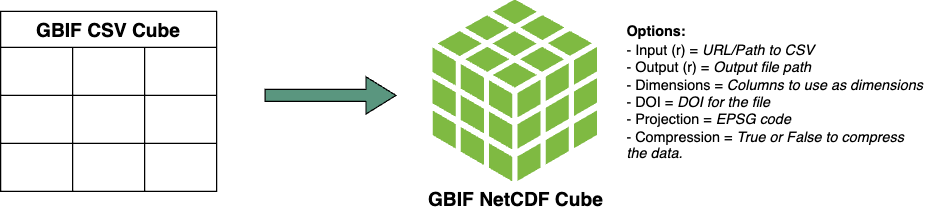
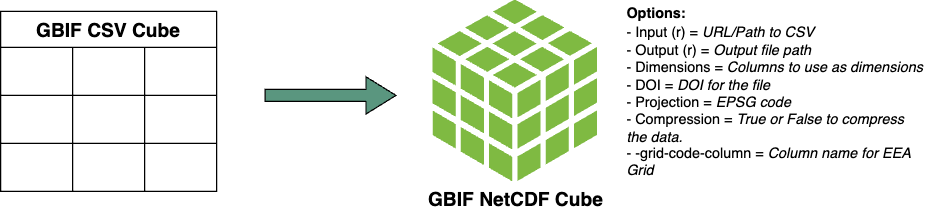
updated

diff --git a/gbif-csv2netcdf.py b/gbif-csv2netcdf.py
@@ -83,6 +83,13 @@ parser.add_argument(
     help="Digital Object Identifier (DOI) of the dataset",
 )
 
+parser.add_argument(
+    "--grid-code-column",
+    type=str,
+    required=False,
+    help="Name of the column containing the EEA grid cell code",
+)
+
 # Parse the parameter string on the commandline into the args defined above
 ARGS = vars(parser.parse_args())
 
@@ -94,29 +101,50 @@ DIMENSIONS = ARGS["dimensions"]
 COMPRESSION = ARGS["compression"]
 PROJECTION = ARGS["projection"]
 DOI = ARGS["doi"]
+GRID_CODE_COLUMN = ARGS["grid_code_column"]
 
 try:
-    # Extraxt the EAST coordinate
-    def extract_east_number(text):
-        numbers = re.findall(r'\d+', text)
-        if len(numbers) >= 2:
-            return int(numbers[1])  # Extract the second number
+
+    def extract_east_north(text, east_or_north):
+        """
+        Extracts the easting and northing values from a grid cell code, applying
+        a scaling factor based on whether the resolution is in kilometers or meters.
+
+        Parameters:
+        text (str): The grid cell code, e.g., '250mE1025N22000'.
+
+        Returns:
+        tuple: A tuple containing the scaled easting and northing values, or None if extraction fails.
+        """
+        # Determine the resolution unit and set the scaling factor
+        resolution_match = re.match(r"(\d+)(km|m)", text)
+        if resolution_match:
+            unit = resolution_match.group(2)
+            if unit == "km":
+                scaling_factor = 1000
+            elif unit == "m":
+                scaling_factor = 10
+            elif unit is None:
+                return None
+
+        else:
+            return None  # If the resolution unit is not found
+
+        # Extract the numerical parts of the code
+        numbers = re.findall(r"\d+", text)
+        if len(numbers) >= 3:  # Ensure there are enough parts in the code
+            easting = (
+                int(numbers[1]) * scaling_factor
+            )  # Apply scaling to the easting value
+            northing = (
+                int(numbers[2]) * scaling_factor
+            )  # Apply scaling to the northing value
+            if east_or_north == "east":
+                return easting 
+            if east_or_north == "north":
+                return northing
         else:
             return None
-        
-
-    # Extraxt the NORTH coordinate
-    def extract_north_number(text):
-        numbers = re.findall(r'\d+', text)
-        match = re.match(r'(\d+km|\d+m)', text)
-        if match:
-            return match.group(0)  # Returns the matched resolution part
-        if len(numbers) >= 2:
-            return int(numbers[2])  # Extract the second number
-        else:
-            return None
-
-
 
     # Check if the input file was not provided and the URL was
     if INPUT_PATH is None and ARGS["url"] is not None:
@@ -132,9 +160,20 @@ try:
         files = os.listdir("data")
 
         # Read the GBIF Data Cube
-        df = pd.read_csv(f"data/{files[0]}", encoding="utf-8", sep="\t", index_col=False)
-        
-        
+        df = pd.read_csv(
+            f"data/{files[0]}", encoding="utf-8", sep="\t", index_col=False
+        )
+
+        # Create Easting and Northing columns from the GRID_CODE_COLUMN
+        if GRID_CODE_COLUMN is not None:
+            df["easting"] = df[GRID_CODE_COLUMN].apply(
+                lambda x: extract_east_north(x, east_or_north= "east")
+            )
+            df["northing"] = df[GRID_CODE_COLUMN].apply(
+                lambda x: extract_east_north(x, east_or_north= "north")
+            )
+            print("\nEasting and Northing columns created")
+
 
         # Infer better dtypes for object columns
         dfn = df.infer_objects()
@@ -152,6 +191,10 @@ try:
                 var = str_var.strip()
                 print("\nAdding dimension", var)
                 ds = ds.assign_coords({dimension: df[var]})
+                if GRID_CODE_COLUMN is not None:
+                    ds = ds.assign_coords(
+                        {"easting": df["easting"], "northing": df["northing"]}
+                    )
                 ds.drop_indexes("index", errors="raise")
 
         # Add attributes to the NetCDF file
@@ -161,15 +204,18 @@ try:
         ds.attrs["source"] = URL or INPUT_PATH
         ds.attrs["history"] = "Created using code from the B-Cubed Hackathon 2024"
         if DOI is not None:
+            print("\nAdding DOI", DOI)
             ds.attrs["doi"] = DOI
 
         # Add the projection to the NetCDF file
+        print("\nAdding projection", PROJECTION)
         ds.rio.write_crs(PROJECTION, inplace=True)
         ds.rio.write_grid_mapping(inplace=True)
 
         # Write the NetCDF file
         # Add compression to the NetCDF file
         if ARGS["compression"]:
+            print("\nAdding compression to the NetCDF file")
             comp = dict(compression="zlib", complevel=5)
             encode = {var: comp for var in ds.data_vars}
             ds.to_netcdf(OUTPUT_PATH, encoding=encode)
@@ -182,13 +228,23 @@ try:
         os.remove("data.zip")
         shutil.rmtree("data")
 
-
     # If the input file was provided, read the file
     else:
         print("\nReading GBIF Data Cube from", INPUT_PATH)
 
         # Read the GBIF Data Cube
         df = pd.read_csv(INPUT_PATH, encoding="utf-8", sep="\t", index_col=False)
+
+        # Create Easting and Northing columns from the GRID_CODE_COLUMN
+        if GRID_CODE_COLUMN is not None:
+            df["easting"] = df[GRID_CODE_COLUMN].apply(
+                lambda x: extract_east_north(x, east_or_north= "east")
+            )
+            df["northing"] = df[GRID_CODE_COLUMN].apply(
+                lambda x: extract_east_north(x, east_or_north= "north")
+            )
+            print("\nEasting and Northing columns created")
+            
 
         # Infer better dtypes for object columns
         dfn = df.infer_objects()
@@ -206,6 +262,10 @@ try:
                 var = str_var.strip()
                 print("\nAdding dimension", var)
                 ds = ds.assign_coords({dimension: df[var]})
+                if GRID_CODE_COLUMN is not None:
+                    ds = ds.assign_coords(
+                        {"easting": df["easting"], "northing": df["northing"]}
+                    )
                 # TODO: drop_indexes method is not working
                 # ds.drop_indexes("index", errors="raise")
 
@@ -227,6 +287,7 @@ try:
         # Write the NetCDF file
         # Add compression to the NetCDF file
         if ARGS["compression"]:
+            print("\nAdding compression to the NetCDF file")
             comp = dict(compression="zlib", complevel=5)
             encode = {var: comp for var in ds.data_vars}
             ds.to_netcdf(OUTPUT_PATH, encoding=encode)
@@ -245,43 +306,3 @@ except:
     os.remove(OUTPUT_PATH)
     print("Exiting the program")
     exit(1)
-    
-    
-    
-    import re
-
-def extract_east_north(text):
-    """
-    Extracts the easting and northing values from a grid cell code, applying
-    a scaling factor based on whether the resolution is in kilometers or meters.
-    
-    Parameters:
-    text (str): The grid cell code, e.g., '250mE1025N22000'.
-    
-    Returns:
-    tuple: A tuple containing the scaled easting and northing values, or None if extraction fails.
-    """
-    # Determine the resolution unit and set the scaling factor
-    resolution_match = re.match(r'(\d+)(km|m)', text)
-    if resolution_match:
-        unit = resolution_match.group(2)
-        if unit == "km"
-            scaling_factor = 1000 
-        elif unit == "m" 10
-    else:
-        return None  # If the resolution unit is not found
-    
-    # Extract the numerical parts of the code
-    numbers = re.findall(r'\d+', text)
-    if len(numbers) >= 3:  # Ensure there are enough parts in the code
-        easting = int(numbers[1]) * scaling_factor  # Apply scaling to the easting value
-        northing = int(numbers[2]) * scaling_factor  # Apply scaling to the northing value
-        return easting, northing
-    else:
-        return None
-
-# Example usage
-codes = ["250mE1025N22000", "1kmE5432N4321"]
-for code in codes:
-    east_north = extract_east_north(code)
-    print(f"Code: {code}, Easting/Northing with Scaling: {east_north}")

diff --git a/README.md b/README.md
@@ -28,12 +28,12 @@
     - Sample GBIF Data Cube: https://api.gbif.org/v1/occurrence/download/request/0000025-240314170635999.zip
 
 
-# DOCUMENTATION: gbif-csv2netcdf4 Converter #
-### Description ###
+# Documentation: gbif-csv2netcdf4 Converter #
+# Description #
 
 The gbif-csv2netcdf Converter is a Python-based utility designed to facilitate the transformation of biodiversity data from the GBIF (Global Biodiversity Information Facility) Data Cube format into the versatile NetCDF (Network Common Data Form) file format. This conversion process allows for more efficient storage, access, and analysis of large-scale environmental and biodiversity datasets. Developed during the B-Cubed Hackathon 2024, this tool stands as a pivotal development for researchers and scientists in the fields of ecology, climate science, and biodiversity conservation.
 
-## Workflow ##
+# Workflow #
 
 The script operates by either downloading a GBIF Data Cube from a specified URL or reading an existing local CSV file that was extracted from the GBIF database. Once the data cube is obtained, it processes the data to fit into the NetCDF format, enabling the use of dimensions for more organized and accessible data. The output is a NetCDF file that contains all the original data, now ready for analysis and visualization with tools that support this format.
 
@@ -69,11 +69,14 @@ Example:
     -p, --projection: Projection to be used in the NetCDF file (default =  "EPSG:3035").
     -doi, --doi: Digital Object Identifier (DOI) for the NetCDF file.
     -c, --compression: Enable or disable compression for the NetCDF file (True or False).
+    --grid-code-column: Specifies the column name for EEA grid
 
-About NetCDF File Format
+# About NetCDF File Format #
 
 NetCDF (Network Common Data Form) is a set of software libraries and machine-independent data formats that support the creation, access, and sharing of array-oriented scientific data. This format is widely used in the scientific community for storing and distributing scientific data. It is particularly suited for handling large volumes of data in a way that is efficient both in terms of storage and computational access.
 Data Cubes Concept
+
+# About Data Cubes #
 
 Data Cubes are a method of structuring data in multiple dimensions (usually three or more) to enable efficient querying and analysis. This concept is especially useful in the field of remote sensing, climate and environmental data analysis, and GIS applications, where data is inherently multi-dimensional (e.g., spatial, temporal, and spectral dimensions). Data cubes facilitate complex data analysis tasks, such as trend analysis over time or spatial pattern recognition, by providing a structured and intuitive way to handle multidimensional datasets.
 
@@ -85,4 +88,7 @@ General Information
     Dependencies: xarray, numpy, pandas, wget, zipfile, shutil, time, geopandas
     Sample Dataset: https://api.gbif.org/v1/occurrence/download/request/0000025-240314170635999.zip
 
-This README provides a comprehensive guide on how to use the GBIF-netCDF4 Converter tool, aiming to make biodiversity data more accessible and manageable for scientific research and analysis.
+# Documentation: gbif-2geotiff Converter #
+### Description ###
+@vitalii you can add your documentation part here!
+
